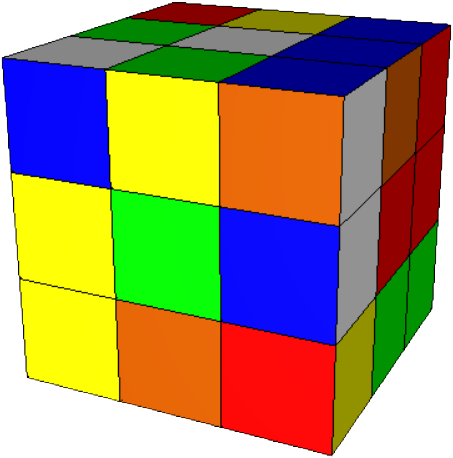
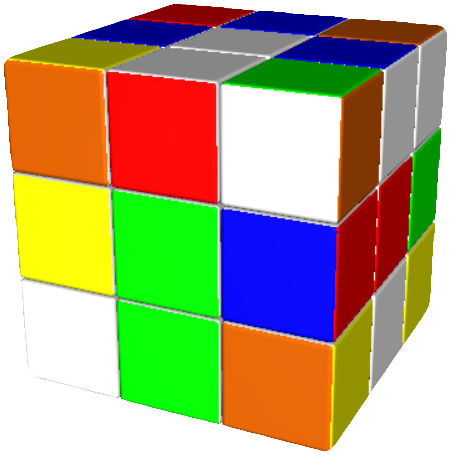
feat: change cube's design

diff --git a/scripts/rotate.js b/scripts/rotate.js
@@ -24,7 +24,7 @@ function rotateUpdate() {
         let rad = Math.sin(x * 2) / speedRotate;
 
         // Determination of direction
-        if (rotate['clockwise'] == false) rad = -rad;
+        if (!rotate['clockwise']) rad = -rad;
 
         // Rotate
         if (rotate['axis'] == 'x') rotator.rotateX(rad);
@@ -39,11 +39,11 @@ function rotateUpdate() {
     };
 };
 
-function setUpCubes(cube, center = false) {
+function prepairCube(cube, center = false) {
     // Add mini cube to rotator
     rotator.add(cube);
 
-    if (rotator.children.length == 9 || rotator.children.length == 8 && center) return true;
+    if (rotator.children.length == 9 || (rotator.children.length == 8 && center)) return true;
 };
 
 function rotateSide(side, clockwise = true, solve = false) {
@@ -63,28 +63,28 @@ function rotateSide(side, clockwise = true, solve = false) {
             y = cube.position.y,
             z = cube.position.z;
         // Set up cube
-        if (side == 'u' && y == 1 && setUpCubes(cube)) {
+        if (side == 'u' && y == 1 && prepairCube(cube)) {
             clockwise = !clockwise;
             axis = 'y';
-        } else if (side == 'f' && z == 1 && setUpCubes(cube)) {
+        } else if (side == 'f' && z == 1 && prepairCube(cube)) {
             clockwise = !clockwise;
             axis = 'z';
-        } else if (side == 'r' && x == 1 && setUpCubes(cube)) {
+        } else if (side == 'r' && x == 1 && prepairCube(cube)) {
             clockwise = !clockwise;
             axis = 'x';
-        } else if (side == 'b' && z == -1 && setUpCubes(cube)) {
+        } else if (side == 'b' && z == -1 && prepairCube(cube)) {
             axis = 'z';
-        } else if (side == 'l' && x == -1 && setUpCubes(cube)) {
+        } else if (side == 'l' && x == -1 && prepairCube(cube)) {
             axis = 'x';
-        } else if (side == 'd' && y == -1 && setUpCubes(cube)) {
+        } else if (side == 'd' && y == -1 && prepairCube(cube)) {
             axis = 'y';
-        } else if (side == 'centerXY' && z == 0 && setUpCubes(cube, true)) {
+        } else if (side == 'centerXY' && z == 0 && prepairCube(cube, true)) {
             clockwise = !clockwise;
             axis = 'z';
-        } else if (side == 'centerXZ' && y == 0 && setUpCubes(cube, true)) {
+        } else if (side == 'centerXZ' && y == 0 && prepairCube(cube, true)) {
             clockwise = !clockwise;
             axis = 'y';
-        } else if (side == 'centerYZ' && x == 0 && setUpCubes(cube, true)) {
+        } else if (side == 'centerYZ' && x == 0 && prepairCube(cube, true)) {
             axis = 'x';
         };
     }
@@ -132,7 +132,7 @@ function finishRotate() {
     // Remove rotator rotation
     rotator.rotation.set(0, 0, 0);
     // Enlarge rotator
-    rotator.scale.set(3.001, 3.001, 3.001);
+    rotator.scale.set(3.1, 3.1, 3.1);
 };
 
 
@@ -178,7 +178,7 @@ function onDocumentPointerMove(event) {
             // Get data where the mouse is hovering
             const intersect = currentObjectHover();
             if (intersect == undefined) return;
-            const intersectSide = intersect[1];
+            const intersectSide = intersect[1];;
             let deviationInX = mouse.x - mouse.touchStartX;
             let deviationInY = mouse.y - mouse.touchStartY;
             if (deviationInX < 0) deviationInX = -deviationInX;
@@ -188,31 +188,36 @@ function onDocumentPointerMove(event) {
                 const pos = intersect[0].object.position;
                 const cameraOnAxisZ = ((camera.position.z > 0) ? ((camera.position.x > 0) ? (camera.position.z > camera.position.x) : (camera.position.z > -camera.position.x)) : ((camera.position.x > 0) ? (-camera.position.z > camera.position.x) : (-camera.position.z > -camera.position.x)));
 
+                const redSide = intersectSide <= 22;
+                const orangeSide = intersectSide > 22 && intersectSide <= 47;
+                const whiteSide = intersectSide > 47 && intersectSide <= 72;
+                const yellowSide = intersectSide > 72 && intersectSide <= 97;
+
                 // Detect which side need to rotate
                 if (movement.axisOfMovement == 'x') {
-                    if (intersectSide != 2 && intersectSide != 3) {
+                    if (!whiteSide && !yellowSide) {
                         if (pos.y == 1) cubeSideToRotate = 'u';
                         else if (pos.y == 0) cubeSideToRotate = 'centerXZ';
                         else if (pos.y == -1) cubeSideToRotate = 'd';
-                    } else if ((intersectSide == 2 || intersectSide == 3) && cameraOnAxisZ) {
+                    } else if ((whiteSide || yellowSide) && cameraOnAxisZ) {
                         if (pos.z == 1) cubeSideToRotate = 'f';
                         else if (pos.z == 0) cubeSideToRotate = 'centerXY';
                         else if (pos.z == -1) cubeSideToRotate = 'b';
-                    } else if ((intersectSide == 2 || intersectSide == 3) && !cameraOnAxisZ) {
+                    } else if ((whiteSide || yellowSide) && !cameraOnAxisZ) {
                         if (pos.x == -1) cubeSideToRotate = 'l';
                         else if (pos.x == 0) cubeSideToRotate = 'centerYZ';
                         else if (pos.x == 1) cubeSideToRotate = 'r';
                     }
                 } else if (movement.axisOfMovement == 'y') {
-                    if (intersectSide != 0 && intersectSide != 1 && !((intersectSide == 2 || intersectSide == 3) && !cameraOnAxisZ)) {
+                    if (!redSide && !orangeSide && !((whiteSide || yellowSide) && !cameraOnAxisZ)) {
                         if (pos.x == -1) cubeSideToRotate = 'l';
                         else if (pos.x == 0) cubeSideToRotate = 'centerYZ';
                         else if (pos.x == 1) cubeSideToRotate = 'r';
-                    } else if ((intersectSide == 0 || intersectSide == 1)) {
+                    } else if ((redSide || orangeSide)) {
                         if (pos.z == 1) cubeSideToRotate = 'f';
                         else if (pos.z == 0) cubeSideToRotate = 'centerXY';
                         else if (pos.z == -1) cubeSideToRotate = 'b';
-                    } else if ((intersectSide == 2 || intersectSide == 3) && !cameraOnAxisZ) {
+                    } else if ((whiteSide || yellowSide) && !cameraOnAxisZ) {
                         if (pos.z == 1) cubeSideToRotate = 'f';
                         else if (pos.z == 0) cubeSideToRotate = 'centerXY';
                         else if (pos.z == -1) cubeSideToRotate = 'b';
@@ -226,28 +231,28 @@ function onDocumentPointerMove(event) {
                         y = cube.position.y,
                         z = cube.position.z;
                     // Set up cube
-                    if (cubeSideToRotate == 'u' && y == 1 && setUpCubes(cube)) {
+                    if (cubeSideToRotate == 'u' && y == 1 && prepairCube(cube)) {
                         clockwise = !clockwise;
                         axis = 'y';
-                    } else if (cubeSideToRotate == 'f' && z == 1 && setUpCubes(cube)) {
+                    } else if (cubeSideToRotate == 'f' && z == 1 && prepairCube(cube)) {
                         clockwise = !clockwise;
                         axis = 'z';
-                    } else if (cubeSideToRotate == 'r' && x == 1 && setUpCubes(cube)) {
+                    } else if (cubeSideToRotate == 'r' && x == 1 && prepairCube(cube)) {
                         clockwise = !clockwise;
                         axis = 'x';
-                    } else if (cubeSideToRotate == 'b' && z == -1 && setUpCubes(cube)) {
+                    } else if (cubeSideToRotate == 'b' && z == -1 && prepairCube(cube)) {
                         axis = 'z';
-                    } else if (cubeSideToRotate == 'l' && x == -1 && setUpCubes(cube)) {
+                    } else if (cubeSideToRotate == 'l' && x == -1 && prepairCube(cube)) {
                         axis = 'x';
-                    } else if (cubeSideToRotate == 'd' && y == -1 && setUpCubes(cube)) {
+                    } else if (cubeSideToRotate == 'd' && y == -1 && prepairCube(cube)) {
                         axis = 'y';
-                    } else if (cubeSideToRotate == 'centerXY' && z == 0 && setUpCubes(cube, true)) {
+                    } else if (cubeSideToRotate == 'centerXY' && z == 0 && prepairCube(cube, true)) {
                         clockwise = !clockwise;
                         axis = 'z';
-                    } else if (cubeSideToRotate == 'centerXZ' && y == 0 && setUpCubes(cube, true)) {
+                    } else if (cubeSideToRotate == 'centerXZ' && y == 0 && prepairCube(cube, true)) {
                         clockwise = !clockwise;
                         axis = 'y';
-                    } else if (cubeSideToRotate == 'centerYZ' && x == 0 && setUpCubes(cube, true)) {
+                    } else if (cubeSideToRotate == 'centerYZ' && x == 0 && prepairCube(cube, true)) {
                         axis = 'x';
                     };
                 };
@@ -264,13 +269,22 @@ function onDocumentPointerMove(event) {
             // Calculate mouse deviation
             let deviationInX = mouse.x - movement.oldPos.x;
             let deviationInY = mouse.y - movement.oldPos.y;
+
+            // Set variables
+            const redSide = movement['intersectSide'] <= 22;
+            const whiteSide = movement['intersectSide'] > 47 && movement['intersectSide'] <= 72;
+            const yellowSide = movement['intersectSide'] > 72 && movement['intersectSide'] <= 97;
+            const blueSide = movement['intersectSide'] > 122 && movement['intersectSide'] <= 147;
+            
             // Calculate rad to rotate
-            let rad = (movement['axis'] == 'y' ? deviationInX : ((movement['intersectSide'] == 2 || movement['intersectSide'] == 3) && movement['axisOfMovement'] == 'x' ? deviationInX : deviationInY)) / (speedRotate == 2.9 ? smallestSide() / 3 : (speedRotate == 3.9 ? smallestSide() / 2 : smallestSide() / 4));
+            let rad = (movement['axis'] == 'y' ? deviationInX : ((whiteSide || yellowSide) && movement['axisOfMovement'] == 'x' ? deviationInX : deviationInY)) / (speedRotate == 2.9 ? smallestSide() / 3 : (speedRotate == 3.9 ? smallestSide() / 2 : smallestSide() / 4));
+            
             // Set up rad
-            if (movement['intersectSide'] == 5 && movement['axis'] == 'x') rad = -rad;
-            else if ((movement['intersectSide'] == 0 || movement['intersectSide'] == 2) && movement['axis'] == 'z') rad = -rad;
-            if (movement['intersectSide'] == 2 && ((!movement['cameraOnAxisZ'] && ((movement['axis'] == 'x' && camera.position.x > 0) || (movement['axis'] == 'z' && camera.position.x < 0)) || (movement['cameraOnAxisZ'] && camera.position.z < 0)))) rad = -rad;
-            else if (movement['intersectSide'] == 3 && ((!movement['cameraOnAxisZ'] && ((movement['axis'] == 'z' && camera.position.x > 0) || (movement['axis'] == 'x' && camera.position.x < 0)) || (movement['cameraOnAxisZ'] && camera.position.z < 0)))) rad = -rad;
+            if (blueSide && movement['axis'] == 'x') rad = -rad;
+            else if ((redSide || whiteSide) && movement['axis'] == 'z') rad = -rad;
+            if (whiteSide && ((!movement['cameraOnAxisZ'] && ((movement['axis'] == 'x' && camera.position.x > 0) || (movement['axis'] == 'z' && camera.position.x < 0)) || (movement['cameraOnAxisZ'] && camera.position.z < 0)))) rad = -rad;
+            else if (yellowSide && ((!movement['cameraOnAxisZ'] && ((movement['axis'] == 'z' && camera.position.x > 0) || (movement['axis'] == 'x' && camera.position.x < 0)) || (movement['cameraOnAxisZ'] && camera.position.z < 0)))) rad = -rad;
+            
             // Rotate
             if (movement['axis'] == 'x') rotator.rotateX(rad);
             else if (movement['axis'] == 'y') rotator.rotateY(rad);

diff --git a/scripts/otherScripts/RoundedBoxGeometry.js b/scripts/otherScripts/RoundedBoxGeometry.js
@@ -1,0 +1,155 @@
+import {
+	BoxGeometry,
+	Vector3
+} from './three.module.js';
+
+const _tempNormal = new Vector3();
+
+function getUv( faceDirVector, normal, uvAxis, projectionAxis, radius, sideLength ) {
+
+	const totArcLength = 2 * Math.PI * radius / 4;
+
+	// length of the planes between the arcs on each axis
+	const centerLength = Math.max( sideLength - 2 * radius, 0 );
+	const halfArc = Math.PI / 4;
+
+	// Get the vector projected onto the Y plane
+	_tempNormal.copy( normal );
+	_tempNormal[ projectionAxis ] = 0;
+	_tempNormal.normalize();
+
+	// total amount of UV space alloted to a single arc
+	const arcUvRatio = 0.5 * totArcLength / ( totArcLength + centerLength );
+
+	// the distance along one arc the point is at
+	const arcAngleRatio = 1.0 - ( _tempNormal.angleTo( faceDirVector ) / halfArc );
+
+	if ( Math.sign( _tempNormal[ uvAxis ] ) === 1 ) {
+
+		return arcAngleRatio * arcUvRatio;
+
+	} else {
+
+		// total amount of UV space alloted to the plane between the arcs
+		const lenUv = centerLength / ( totArcLength + centerLength );
+		return lenUv + arcUvRatio + arcUvRatio * ( 1.0 - arcAngleRatio );
+
+	}
+
+}
+
+class RoundedBoxGeometry extends BoxGeometry {
+
+	constructor( width = 1, height = 1, depth = 1, segments = 2, radius = 0.1 ) {
+
+		// ensure segments is odd so we have a plane connecting the rounded corners
+		segments = segments * 2 + 1;
+
+		// ensure radius isn't bigger than shortest side
+		radius = Math.min( width / 2, height / 2, depth / 2, radius );
+
+		super( 1, 1, 1, segments, segments, segments );
+
+		// if we just have one segment we're the same as a regular box
+		if ( segments === 1 ) return;
+
+		const geometry2 = this.toNonIndexed();
+
+		this.index = null;
+		this.attributes.position = geometry2.attributes.position;
+		this.attributes.normal = geometry2.attributes.normal;
+		this.attributes.uv = geometry2.attributes.uv;
+
+		//
+
+		const position = new Vector3();
+		const normal = new Vector3();
+
+		const box = new Vector3( width, height, depth ).divideScalar( 2 ).subScalar( radius );
+
+		const positions = this.attributes.position.array;
+		const normals = this.attributes.normal.array;
+		const uvs = this.attributes.uv.array;
+
+		const faceTris = positions.length / 6;
+		const faceDirVector = new Vector3();
+		const halfSegmentSize = 0.5 / segments;
+
+		for ( let i = 0, j = 0; i < positions.length; i += 3, j += 2 ) {
+
+			position.fromArray( positions, i );
+			normal.copy( position );
+			normal.x -= Math.sign( normal.x ) * halfSegmentSize;
+			normal.y -= Math.sign( normal.y ) * halfSegmentSize;
+			normal.z -= Math.sign( normal.z ) * halfSegmentSize;
+			normal.normalize();
+
+			positions[ i + 0 ] = box.x * Math.sign( position.x ) + normal.x * radius;
+			positions[ i + 1 ] = box.y * Math.sign( position.y ) + normal.y * radius;
+			positions[ i + 2 ] = box.z * Math.sign( position.z ) + normal.z * radius;
+
+			normals[ i + 0 ] = normal.x;
+			normals[ i + 1 ] = normal.y;
+			normals[ i + 2 ] = normal.z;
+
+			const side = Math.floor( i / faceTris );
+
+			switch ( side ) {
+
+				case 0: // right
+
+					// generate UVs along Z then Y
+					faceDirVector.set( 1, 0, 0 );
+					uvs[ j + 0 ] = getUv( faceDirVector, normal, 'z', 'y', radius, depth );
+					uvs[ j + 1 ] = 1.0 - getUv( faceDirVector, normal, 'y', 'z', radius, height );
+					break;
+
+				case 1: // left
+
+					// generate UVs along Z then Y
+					faceDirVector.set( - 1, 0, 0 );
+					uvs[ j + 0 ] = 1.0 - getUv( faceDirVector, normal, 'z', 'y', radius, depth );
+					uvs[ j + 1 ] = 1.0 - getUv( faceDirVector, normal, 'y', 'z', radius, height );
+					break;
+
+				case 2: // top
+
+					// generate UVs along X then Z
+					faceDirVector.set( 0, 1, 0 );
+					uvs[ j + 0 ] = 1.0 - getUv( faceDirVector, normal, 'x', 'z', radius, width );
+					uvs[ j + 1 ] = getUv( faceDirVector, normal, 'z', 'x', radius, depth );
+					break;
+
+				case 3: // bottom
+
+					// generate UVs along X then Z
+					faceDirVector.set( 0, - 1, 0 );
+					uvs[ j + 0 ] = 1.0 - getUv( faceDirVector, normal, 'x', 'z', radius, width );
+					uvs[ j + 1 ] = 1.0 - getUv( faceDirVector, normal, 'z', 'x', radius, depth );
+					break;
+
+				case 4: // front
+
+					// generate UVs along X then Y
+					faceDirVector.set( 0, 0, 1 );
+					uvs[ j + 0 ] = 1.0 - getUv( faceDirVector, normal, 'x', 'y', radius, width );
+					uvs[ j + 1 ] = 1.0 - getUv( faceDirVector, normal, 'y', 'x', radius, height );
+					break;
+
+				case 5: // back
+
+					// generate UVs along X then Y
+					faceDirVector.set( 0, 0, - 1 );
+					uvs[ j + 0 ] = getUv( faceDirVector, normal, 'x', 'y', radius, width );
+					uvs[ j + 1 ] = 1.0 - getUv( faceDirVector, normal, 'y', 'x', radius, height );
+					break;
+
+			}
+
+		}
+
+	}
+
+}
+
+export { RoundedBoxGeometry };

diff --git a/scripts/3d.js b/scripts/3d.js
@@ -2,6 +2,7 @@ import * as THREE from './otherScripts/three.module.js';
 import { OrbitControls } from './otherScripts/OrbitControls.js';
 
 import { rotateUpdate, onDocumentMouseDown, onDocumentTouchDown, onDocumentMouseMove, onDocumentTouchMove, onDocumentPointerUp } from './rotate.js';
+import { RoundedBoxGeometry } from './otherScripts/RoundedBoxGeometry.js';
 
 
 let RubiksCube = [], scene, camera, renderer, controls, rotator, absoluteAxises;
@@ -99,19 +100,12 @@ function initCube() {
         'gray': new THREE.MeshPhongMaterial({ color: 0xdddddd, polygonOffset: true, polygonOffsetUnits: 1000 })
     };
 
-    const geometry = new THREE.BoxGeometry();
+    const geometry = new RoundedBoxGeometry(1, 1, 1, 2, 0.05);
 
     function createCube(position, materials) {
         const cube = new THREE.Mesh(geometry, materials);
         scene.add(cube);
         cube.position.set(...position);
-
-        // Border
-        const geo = new THREE.EdgesGeometry(cube.geometry);
-        const mat = new THREE.LineBasicMaterial({ color: 0x000000 });
-
-        const wireFrame = new THREE.LineSegments(geo, mat);
-        cube.add(wireFrame);
 
         return cube;
     };
@@ -189,7 +183,7 @@ function initCube() {
 
     // Create object for rotate a group of objects
     rotator = new THREE.Mesh(geometry, new THREE.MeshBasicMaterial({ color: 0xffffff, opacity: 0, transparent: true }));
-    rotator.scale.set(3.001, 3.001, 3.001);
+    rotator.scale.set(3.1, 3.1, 3.1);
     scene.add(rotator);
 };
 

diff --git a/README.md b/README.md
@@ -1,3 +1,10 @@
 # Rubik's Cube
 Virtual Rubik's Cube. <br>
 Link: https://hirontez.github.io/Rubiks-Cube/
+
+0=red
+1=orange
+2=white
+3=yellow
+4=green
+5=blue
